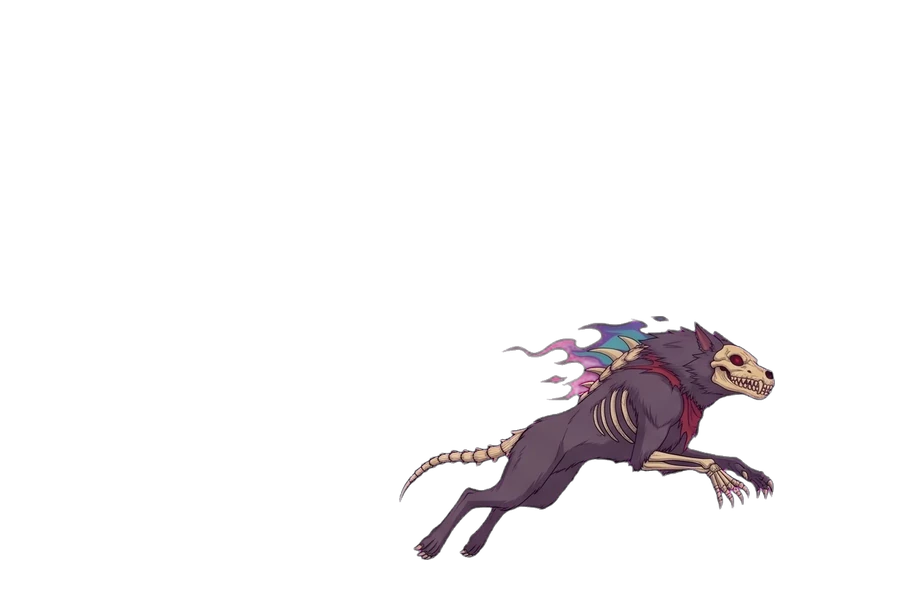
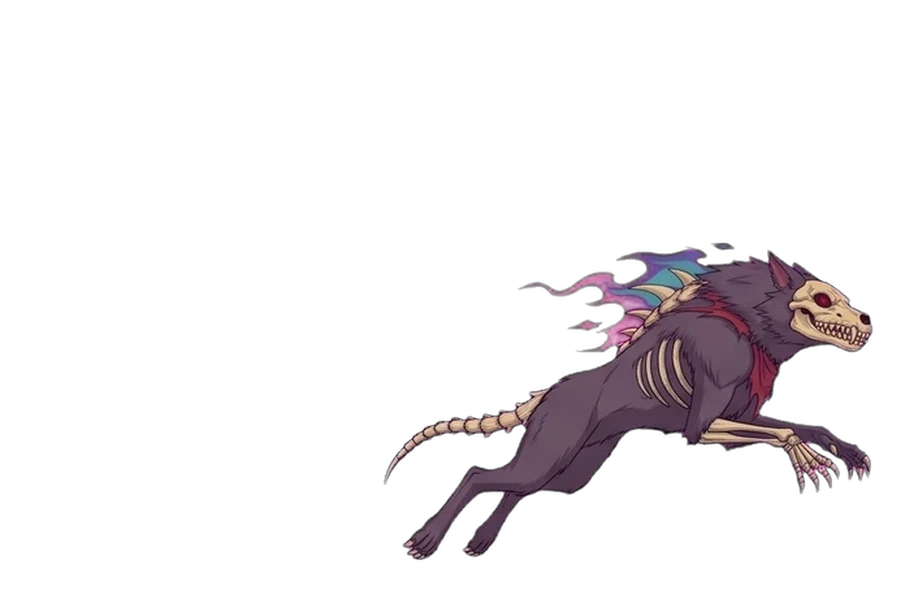
v0.8.31 第5關：移除程式變形，大狼攻擊格放大1.3倍
Claude-Session: https://claude.ai/code/session_019t36GqtZiMFsp46HhEjvLY

Changed region(s): [[0.4044, 0.39, 0.9956, 0.93]]

diff --git a/index.html b/index.html
@@ -2073,7 +2073,7 @@
       "use strict";
 
       /* v0.7.8 圖片快取：assets/ 圖片網址一律加 ?v=版本，更新美術後不會讀到手機瀏覽器的舊快取（每次改圖就遞增 ASSET_VER） */
-      const ASSET_VER = "0.8.30";
+      const ASSET_VER = "0.8.31";
       (function () {
         const d = Object.getOwnPropertyDescriptor(HTMLImageElement.prototype, "src");
         if (!d || !d.set) return;
@@ -2825,28 +2825,28 @@
         const M = {};
         const FR = (w, a, r) => ({ windup: w, active: a, recover: r });
         /* --- 小狼（快、低、打了就跑） --- */
-        M.s_bite = { fxAct: { sheet: "wolf", row: 1, ox: 120, oy: -85, w: 280, dur: 0.26 }, kick: 0.12, dfm: { w: { sx: 1.18, sy: 0.74, rot: -0.14, ox: -55 }, a: { sx: 1.45, sy: 0.84, rot: 0.14, ox: 120, ghost: 3, gap: 38 }, r: {}, bounce: 1.2 }, name: "幽影撕咬", frames: { windup: ["07_windup", "20_bite_crouch"], active: ["21_bite_lunge"], recover: ["10_slash_rec"] }, windup: 0.26, active: 0.12, recover: 0.22, range: 150, lunge: 520, damage: 120, parryPostureDmg: 16 };
-        M.s_bite2 = { fxHit: { sheet: "wolf", row: 1, ox: 110, oy: -85, w: 240, dur: 0.22 }, kickHit: 0.08, dfm: { pulse: true, w: { sx: 1.16, sy: 0.76, rot: -0.12, ox: -50 }, a: { sx: 1.4, sy: 0.84, rot: 0.12, ox: 100, ghost: 3, gap: 34 }, r: {} }, name: "連環撕咬", isCombo: true, comboTotalHits: 2, comboInterval: 0.16, comboDamagePerHit: 85, frames: { windup: ["20_bite_crouch"], active: ["21_bite_lunge", "29_claw", "21_bite_lunge"], recover: ["10_slash_rec"] }, windup: 0.30, active: 0.45, recover: 0.30, range: 155, lunge: 420, damage: 100, parryPostureDmg: 14 };
-        M.s_claw3 = { kickHit: 0.08, dfm: { pulse: true, w: { sx: 1.14, sy: 0.78, rot: -0.12, ox: -45 }, a: { sx: 1.38, sy: 0.86, rot: 0.14, ox: 90, ghost: 3, gap: 34 }, r: {} }, fxHit: { sheet: "wolf", row: 0, ox: 110, oy: -90, w: 300, dur: 0.25 }, name: "血爪三連", isCombo: true, comboTotalHits: 3, comboInterval: 0.18, comboDamagePerHit: 80, frames: { windup: ["07_windup"], active: ["29_claw", "09_slash", "29_claw"], recover: ["10_slash_rec"] }, windup: 0.38, active: 0.62, recover: 0.34, range: 160, lunge: 420, damage: 110, parryPostureDmg: 14 };
-        M.s_pounce = { fxLand: 0.45, kick: 0.1, dfm: { w: { sx: 1.3, sy: 0.6, rot: -0.2, ox: -50 }, a: { sx: 1.55, sy: 0.8, rot: -0.5, rotEnd: 0.55, ghost: 4, gap: 46 }, r: { sx: 1.0, sy: 1.0 }, bounce: 1.4 }, name: "疾撲 (閃開，或起跳踩頭)", isLeap: true, leapH: 130, leapMax: 460, frames: { windup: ["08_windup_thrust", "22_pounce_coil"], active: ["23_pounce_fly", "24_pounce_dive"], recover: ["25_pounce_land", "12_thrust_rec"] }, windup: 0.42, active: 0.36, recover: 0.42, range: 150, lunge: 0, damage: 150, parryPostureDmg: 16 };
-        M.s_rush = { fxAct: { sheet: "wolf", row: 0, ox: 150, oy: -90, w: 440, dur: 0.3 }, kick: 0.22, dfm: { shake: 3, w: { sx: 1.28, sy: 0.64, rot: -0.2, ox: -80 }, a: { sx: 1.65, sy: 0.8, rot: 0.1, ox: 150, ghost: 5, gap: 52 }, r: {}, bounce: 1.3 }, name: "【危】狂暴衝撲 (前閃看破)", isPerilous: true, perilType: "thrust", frames: { windup: ["08_windup_thrust", "22_pounce_coil"], active: ["26_rush"], recover: ["25_pounce_land", "12_thrust_rec"] }, windup: 0.50, active: 0.20, recover: 0.55, range: 300, lunge: 980, damage: 300 };
-        M.s_tail = { fxAct: { sheet: "land", row: 2, ox: 0, oy: -45, w: 560, dur: 0.45, alpha: 0.6 }, kick: 0.15, dfm: { w: { sx: 1.1, sy: 0.8, rot: 0.14, ox: -20 }, a: { sx: 1.28, sy: 0.9, rot: -0.2, rotEnd: -0.35, ox: 20, ghost: 3, gap: 30 }, r: {} }, name: "【危】甩尾旋斬 (起跳踩頭)", isPerilous: true, perilType: "sweep", frames: { windup: ["27_tail_wind"], active: ["28_tail_spin", "13_sweep"], recover: ["10_slash_rec"] }, windup: 0.52, active: 0.22, recover: 0.50, range: 230, lunge: 240, damage: 260 };
-        M.s_shadow = { dfm: { w: { sx: 0.9, sy: 1.1 }, a: { sx: 1.4, sy: 0.86, ox: 90, ghost: 4, gap: 44 }, r: {} }, name: "幽影閃 (繞背)", isTeleport: true, teleportBehind: true, teleportDelay: 0.30, teleportText: "【幽影閃】", teleportColor: "#c084fc", frames: FR("07_windup", "09_slash", "10_slash_rec"), windup: 0.50, active: 0.12, recover: 0.34, range: 150, lunge: 300, damage: 130, parryPostureDmg: 14 };
-        M.backstep = { name: "後撤", dfm: { a: { sx: 1.3, sy: 0.86, rot: -0.1, ox: -30, ghost: 4, gap: 46 }, r: {} }, isMobility: true, frames: { windup: "04_walk2", active: "04_walk2", recover: "01_idle1" }, windup: 0.08, active: 0.24, recover: 0.08, range: 0, lunge: -1000, damage: 0 };
-        M.dash_in = { name: "衝步", dfm: { a: { sx: 1.4, sy: 0.84, rot: 0.1, ox: 40, ghost: 4, gap: 50 }, r: {} }, isMobility: true, frames: { windup: "03_walk1", active: "03_walk1", recover: "01_idle1" }, windup: 0.10, active: 0.20, recover: 0.05, range: 0, lunge: 1250, damage: 0 };
-        M.s_rage = { kickHit: 0.1, dfm: { pulse: true, shake: 4, w: { sx: 1.2, sy: 0.72, rot: -0.16, ox: -60 }, a: { sx: 1.45, sy: 0.84, rot: 0.14, ox: 100, ghost: 3, gap: 36 }, r: {} }, name: "嗜血狂亂 (霸體)", isRage: true, armor: true, isCombo: true, comboTotalHits: 4, comboInterval: 0.16, comboDamagePerHit: 80, frames: { windup: ["20_bite_crouch"], active: ["29_claw", "21_bite_lunge", "29_claw", "09_slash"], recover: ["10_slash_rec"] }, windup: 0.50, active: 0.78, recover: 0.55, range: 165, lunge: 460, damage: 120, parryPostureDmg: 18 };
+        M.s_bite = { fxAct: { sheet: "wolf", row: 1, ox: 120, oy: -85, w: 280, dur: 0.26 }, kick: 0.12, name: "幽影撕咬", frames: { windup: ["07_windup", "20_bite_crouch"], active: ["21_bite_lunge"], recover: ["10_slash_rec"] }, windup: 0.26, active: 0.12, recover: 0.22, range: 150, lunge: 520, damage: 120, parryPostureDmg: 16 };
+        M.s_bite2 = { fxHit: { sheet: "wolf", row: 1, ox: 110, oy: -85, w: 240, dur: 0.22 }, kickHit: 0.08, name: "連環撕咬", isCombo: true, comboTotalHits: 2, comboInterval: 0.16, comboDamagePerHit: 85, frames: { windup: ["20_bite_crouch"], active: ["21_bite_lunge", "29_claw", "21_bite_lunge"], recover: ["10_slash_rec"] }, windup: 0.30, active: 0.45, recover: 0.30, range: 155, lunge: 420, damage: 100, parryPostureDmg: 14 };
+        M.s_claw3 = { kickHit: 0.08, fxHit: { sheet: "wolf", row: 0, ox: 110, oy: -90, w: 300, dur: 0.25 }, name: "血爪三連", isCombo: true, comboTotalHits: 3, comboInterval: 0.18, comboDamagePerHit: 80, frames: { windup: ["07_windup"], active: ["29_claw", "09_slash", "29_claw"], recover: ["10_slash_rec"] }, windup: 0.38, active: 0.62, recover: 0.34, range: 160, lunge: 420, damage: 110, parryPostureDmg: 14 };
+        M.s_pounce = { fxLand: 0.45, kick: 0.1, name: "疾撲 (閃開，或起跳踩頭)", isLeap: true, leapH: 130, leapMax: 460, frames: { windup: ["08_windup_thrust", "22_pounce_coil"], active: ["23_pounce_fly", "24_pounce_dive"], recover: ["25_pounce_land", "12_thrust_rec"] }, windup: 0.42, active: 0.36, recover: 0.42, range: 150, lunge: 0, damage: 150, parryPostureDmg: 16 };
+        M.s_rush = { fxAct: { sheet: "wolf", row: 0, ox: 150, oy: -90, w: 440, dur: 0.3 }, kick: 0.22, name: "【危】狂暴衝撲 (前閃看破)", isPerilous: true, perilType: "thrust", frames: { windup: ["08_windup_thrust", "22_pounce_coil"], active: ["26_rush"], recover: ["25_pounce_land", "12_thrust_rec"] }, windup: 0.50, active: 0.20, recover: 0.55, range: 300, lunge: 980, damage: 300 };
+        M.s_tail = { fxAct: { sheet: "land", row: 2, ox: 0, oy: -45, w: 560, dur: 0.45, alpha: 0.6 }, kick: 0.15, name: "【危】甩尾旋斬 (起跳踩頭)", isPerilous: true, perilType: "sweep", frames: { windup: ["27_tail_wind"], active: ["28_tail_spin", "13_sweep"], recover: ["10_slash_rec"] }, windup: 0.52, active: 0.22, recover: 0.50, range: 230, lunge: 240, damage: 260 };
+        M.s_shadow = { name: "幽影閃 (繞背)", isTeleport: true, teleportBehind: true, teleportDelay: 0.30, teleportText: "【幽影閃】", teleportColor: "#c084fc", frames: FR("07_windup", "09_slash", "10_slash_rec"), windup: 0.50, active: 0.12, recover: 0.34, range: 150, lunge: 300, damage: 130, parryPostureDmg: 14 };
+        M.backstep = { name: "後撤", isMobility: true, frames: { windup: "04_walk2", active: "04_walk2", recover: "01_idle1" }, windup: 0.08, active: 0.24, recover: 0.08, range: 0, lunge: -1000, damage: 0 };
+        M.dash_in = { name: "衝步", isMobility: true, frames: { windup: "03_walk1", active: "03_walk1", recover: "01_idle1" }, windup: 0.10, active: 0.20, recover: 0.05, range: 0, lunge: 1250, damage: 0 };
+        M.s_rage = { kickHit: 0.1, name: "嗜血狂亂 (霸體)", isRage: true, armor: true, isCombo: true, comboTotalHits: 4, comboInterval: 0.16, comboDamagePerHit: 80, frames: { windup: ["20_bite_crouch"], active: ["29_claw", "21_bite_lunge", "29_claw", "09_slash"], recover: ["10_slash_rec"] }, windup: 0.50, active: 0.78, recover: 0.55, range: 165, lunge: 460, damage: 120, parryPostureDmg: 18 };
         /* --- 蛻變（不是攻擊：長嘯 1.4 秒脹大，active 起點換成大狼，震退） --- */
         M.transform = { name: "九幽狼王・覺醒", isSwitch: true, isTransform: true, armor: true, switchText: { B: "〔九幽狼王・覺醒〕" }, frames: FR("14_cast", "14_cast", "14_cast"), windup: 1.4, active: 0.4, recover: 0.7, range: 0, lunge: 0, damage: 0 };
         /* --- 大狼（慢、重、大範圍；range 含半個身長） --- */
-        M.b_swipe = { kick: 0.35, dfm: { shake: 4, w: { sx: 1.1, sy: 0.84, rot: -0.2, ox: -80, oy: -6 }, a: { sx: 1.28, sy: 0.96, rot: 0.2, ox: 170, ghost: 3, gap: 56 }, r: {} }, fxAct: { sheet: "wolf", row: 0, ox: 200, oy: -210, w: 640, dur: 0.34 }, name: "巨爪橫掃", frames: { windup: ["07_windup", "22_swipe_rear"], active: ["23_swipe_mid", "09_slash"], recover: ["10_slash_rec"] }, windup: 0.62, active: 0.18, recover: 0.55, range: 330, lunge: 220, damage: 210, parryPostureDmg: 28 };
-        M.b_stomp = { kickHit: 0.3, dfm: { pulse: true, shake: 3, w: { sx: 0.92, sy: 1.1, rot: -0.22, ox: -50, oy: -26 }, a: { sx: 1.18, sy: 0.82, rot: 0.26, ox: 90, oy: 12 }, r: {} }, name: "地面連錘", isCombo: true, comboTotalHits: 3, comboInterval: 0.30, comboDamagePerHit: 110, fxHit: { sheet: "land", row: 0, ox: 260, oy: 22, w: 560, dur: 0.5, anchor: "b", alpha: 0.85 }, frames: { windup: ["24_slam_up"], active: ["25_slam_mid", "20_slam"], recover: ["10_slash_rec"] }, windup: 0.60, active: 1.0, recover: 0.55, range: 320, lunge: 300, damage: 160, parryPostureDmg: 20 };
-        M.b_leap = { kick: 0.3, dfm: { shake: 4, w: { sx: 1.3, sy: 0.62, rot: -0.18, ox: -60 }, a: { sx: 1.45, sy: 0.84, rot: -0.55, rotEnd: 0.6, ghost: 4, gap: 62 }, r: { sx: 1, sy: 1 }, bounce: 1.6 }, name: "【危】巨狼躍壓 (閃開，或起跳踩頭)", isLeap: true, fxLand: true, isPerilous: true, perilType: "leap", leapH: 230, leapMax: 640, frames: { windup: ["08_windup_thrust", "26_leap_crouch"], active: ["27_leap_fly", "28_leap_dive"], recover: ["12_thrust_rec", "10_slash_rec"] }, windup: 0.75, active: 0.60, recover: 0.80, range: 300, lunge: 0, damage: 300, parryPostureDmg: 22 };
-        M.b_howl = { kick: 0.25, dfm: { shake: 3, w: { sx: 0.9, sy: 1.16, rot: -0.3, ox: -30, oy: -12 }, a: { sx: 1.06, sy: 1.1, rot: -0.34, oy: -14 }, r: {} }, fxAct: { sheet: "wolf", row: 3, ox: 260, oy: -250, w: 900, dur: 0.7 }, name: "咆哮震波 (霸體・震退)", armor: true, pushback: 900, frames: FR("14_cast", "14_cast", "14_cast"), windup: 0.65, active: 0.15, recover: 0.50, range: 420, lunge: 0, damage: 90, parryPostureDmg: 20 };
+        M.b_swipe = { kick: 0.35, fxAct: { sheet: "wolf", row: 0, ox: 200, oy: -210, w: 640, dur: 0.34 }, name: "巨爪橫掃", frames: { windup: ["07_windup", "22_swipe_rear"], active: ["23_swipe_mid", "09_slash"], recover: ["10_slash_rec"] }, windup: 0.62, active: 0.18, recover: 0.55, range: 330, lunge: 220, damage: 210, parryPostureDmg: 28 };
+        M.b_stomp = { kickHit: 0.3, name: "地面連錘", isCombo: true, comboTotalHits: 3, comboInterval: 0.30, comboDamagePerHit: 110, fxHit: { sheet: "land", row: 0, ox: 260, oy: 22, w: 560, dur: 0.5, anchor: "b", alpha: 0.85 }, frames: { windup: ["24_slam_up"], active: ["25_slam_mid", "20_slam"], recover: ["10_slash_rec"] }, windup: 0.60, active: 1.0, recover: 0.55, range: 320, lunge: 300, damage: 160, parryPostureDmg: 20 };
+        M.b_leap = { kick: 0.3, name: "【危】巨狼躍壓 (閃開，或起跳踩頭)", isLeap: true, fxLand: true, isPerilous: true, perilType: "leap", leapH: 230, leapMax: 640, frames: { windup: ["08_windup_thrust", "26_leap_crouch"], active: ["27_leap_fly", "28_leap_dive"], recover: ["12_thrust_rec", "10_slash_rec"] }, windup: 0.75, active: 0.60, recover: 0.80, range: 300, lunge: 0, damage: 300, parryPostureDmg: 22 };
+        M.b_howl = { kick: 0.25, fxAct: { sheet: "wolf", row: 3, ox: 260, oy: -250, w: 900, dur: 0.7 }, name: "咆哮震波 (霸體・震退)", armor: true, pushback: 900, frames: FR("14_cast", "14_cast", "14_cast"), windup: 0.65, active: 0.15, recover: 0.50, range: 420, lunge: 0, damage: 90, parryPostureDmg: 20 };
         M.b_bone = { name: "白骨刺陣", isZone: true, zoneType: "bone", zoneWidth: 320, zoneDuration: 2.4, zoneDamagePerSec: 150, zoneTargetPlayer: true, frames: FR("14_cast", "14_cast", "14_cast"), windup: 0.55, active: 0.20, recover: 0.50, range: 300, lunge: 0, damage: 120 };
-        M.b_bite = { kick: 0.4, dfm: { shake: 4, w: { sx: 1.25, sy: 0.7, rot: -0.14, ox: -100 }, a: { sx: 1.55, sy: 0.84, rot: 0.16, ox: 190, ghost: 4, gap: 66 }, r: {}, bounce: 1.3 }, name: "【危】噬魂吞咬 (極限側閃)", isPerilous: true, perilType: "grab", fxAct: { sheet: "wolf", row: 1, ox: 300, oy: -190, w: 560, dur: 0.36 }, frames: { windup: ["29_bite_wind"], active: ["30_bite_snap", "21_bite"], recover: ["12_thrust_rec"] }, windup: 0.70, active: 0.16, recover: 0.75, range: 260, lunge: 0, damage: 350 };
-        M.b_tail = { kick: 0.25, dfm: { w: { sx: 1.08, sy: 0.84, rot: 0.1, ox: -30 }, a: { sx: 1.22, sy: 0.94, rot: -0.16, rotEnd: -0.3, ox: -20, ghost: 3, gap: 50 }, r: {} }, fxAct: { sheet: "land", row: 2, ox: 0, oy: -60, w: 1100, dur: 0.5, alpha: 0.7 }, name: "【危】魔尾裂風掃 (起跳踩頭)", isPerilous: true, perilType: "sweep", frames: { windup: ["32_tail_wind"], active: ["33_tail_spin", "13_sweep"], recover: ["10_slash_rec"] }, windup: 0.60, active: 0.24, recover: 0.62, range: 360, lunge: 260, damage: 300 };
-        M.b_rush = { kick: 0.25, dfm: { shake: 4, w: { sx: 1.25, sy: 0.7, rot: -0.14, ox: -90 }, a: { sx: 1.5, sy: 0.86, rot: 0.08, ox: 120, ghost: 5, gap: 70 }, r: {} }, name: "巨狼衝撞 (跳躍越過)", isCharge: true, armor: true, chargeSpeed: 720, frames: { windup: ["26_leap_crouch"], active: ["31_rush"], recover: ["12_thrust_rec"] }, windup: 0.70, active: 0.70, recover: 0.90, range: 260, lunge: 720, damage: 260, parryPostureDmg: 24 };
-        M.b_rage = { kickHit: 0.15, dfm: { pulse: true, shake: 5, w: { sx: 0.95, sy: 1.1, rot: -0.24, oy: -16 }, a: { sx: 1.25, sy: 0.9, rot: 0.2, ox: 140, ghost: 3, gap: 50 }, r: {} }, fxHit: { sheet: "wolf", row: 0, ox: 220, oy: -200, w: 700, dur: 0.3 }, name: "血海狼嚎・亂爪 (霸體)", isRage: true, armor: true, isCombo: true, comboTotalHits: 3, comboInterval: 0.26, comboDamagePerHit: 130, frames: { windup: ["14_cast"], active: ["23_swipe_mid", "25_slam_mid", "23_swipe_mid"], recover: ["10_slash_rec"] }, windup: 0.70, active: 0.95, recover: 0.70, range: 340, lunge: 320, damage: 220, parryPostureDmg: 26 };
+        M.b_bite = { kick: 0.4, name: "【危】噬魂吞咬 (極限側閃)", isPerilous: true, perilType: "grab", fxAct: { sheet: "wolf", row: 1, ox: 300, oy: -190, w: 560, dur: 0.36 }, frames: { windup: ["29_bite_wind"], active: ["30_bite_snap", "21_bite"], recover: ["12_thrust_rec"] }, windup: 0.70, active: 0.16, recover: 0.75, range: 260, lunge: 0, damage: 350 };
+        M.b_tail = { kick: 0.25, fxAct: { sheet: "land", row: 2, ox: 0, oy: -60, w: 1100, dur: 0.5, alpha: 0.7 }, name: "【危】魔尾裂風掃 (起跳踩頭)", isPerilous: true, perilType: "sweep", frames: { windup: ["32_tail_wind"], active: ["33_tail_spin", "13_sweep"], recover: ["10_slash_rec"] }, windup: 0.60, active: 0.24, recover: 0.62, range: 360, lunge: 260, damage: 300 };
+        M.b_rush = { kick: 0.25, name: "巨狼衝撞 (跳躍越過)", isCharge: true, armor: true, chargeSpeed: 720, frames: { windup: ["26_leap_crouch"], active: ["31_rush"], recover: ["12_thrust_rec"] }, windup: 0.70, active: 0.70, recover: 0.90, range: 260, lunge: 720, damage: 260, parryPostureDmg: 24 };
+        M.b_rage = { kickHit: 0.15, fxHit: { sheet: "wolf", row: 0, ox: 220, oy: -200, w: 700, dur: 0.3 }, name: "血海狼嚎・亂爪 (霸體)", isRage: true, armor: true, isCombo: true, comboTotalHits: 3, comboInterval: 0.26, comboDamagePerHit: 130, frames: { windup: ["14_cast"], active: ["23_swipe_mid", "25_slam_mid", "23_swipe_mid"], recover: ["10_slash_rec"] }, windup: 0.70, active: 0.95, recover: 0.70, range: 340, lunge: 320, damage: 220, parryPostureDmg: 26 };
         Object.values(M).forEach(m => { if (m.range) m.range = Math.round(m.range * CHAR_K); });
         S5.moves = M;
         S5.dfmK = 0.35; /* 變形強度：使用者要求輕微（原 1.0 太誇張）*/ S5.fxSheets = ["wolf", "land"]; S5.stanceByPhase = { 1: "A", 2: "B" }; S5.transformMove = "transform"; S5.transformGrow = 3.0; /* 蛻變時小狼脹大的倍數（接近大狼／小狼體型比） */

diff --git a/HANDOFF.md b/HANDOFF.md
@@ -1,4 +1,4 @@
-# 《一念飛仙外傳-墨塵傳》交接文件（對應版本 v0.8.30）
+# 《一念飛仙外傳-墨塵傳》交接文件（對應版本 v0.8.31）
 
 > 新對話開始時：上傳這份文件，第一句話寫「請先讀交接文件，照文件的流程繼續」。
 > Claude 要先把倉庫掛進工作階段（add_repo：mashin-84/mochen，push 權限）、clone，再讀 `index.html` 的關鍵段落。
@@ -340,3 +340,8 @@
 - 新工具 `tools/keyposes.py`：`auto` 模式（姿勢散落無格線，依元件由上到下、左到右輸出 p01…）與 `grid 欄 列` 模式（有格線與英文標籤：每格底部 10% 切掉、近黑元件視為標籤／格線濾掉）。縮放比：小狼 0.58、大狼 0.68。
 - 引擎：`frames` 的每個階段可以是陣列，依該階段進度平均切換（例 `windup: ["08_windup_thrust","22_pounce_coil"]`）；`isLeap` 的 07/09 預設切換只在沒有 `frames.active` 時才用。`bossDeform` 加強度倍率 `stage.dfmK`／`move.dfmK`（第 5 關 0.35，只縮放變形量，殘影張數與震動不變）；想更誇張就調高 `S5.dfmK`。
 - 各招的幀序列在 `Stages[5].moves` 的 `frames`；調整動作節奏只要改陣列。
+
+**v0.8.31 第 5 關：拿掉程式變形、大狼攻擊格放大（使用者實測回饋）**
+- 第 5 關全部招式的 `dfm`（壓扁／拉長／殘影／彈跳）已移除；引擎 `bossDeform` 保留給其他關卡。蛻變脹大（`transformGrow`）仍在。
+- 大狼攻擊關鍵格 `assets/boss5b/22~33` 比走路／站立格小約 25%（keyposes 縮放比 0.68 偏小）→ 以腳底中心為軸整批放大 1.3 倍重存。
+- **未解**：造型衝突——走路／站立／cast 等標準格是「毛皮完整的狼＋魔焰」，攻擊格是「頭骨臉＋骨尾＋骨肢、較瘦」。要真正統一須讓 Gemini 重生大狼 01~16（全頭骨臉＋骨尾，參考 22~33 的設計），再用 `sheetpad.py` 切圖，並拿掉 `remap`／`walkSeq` 的避骨腿限制。
